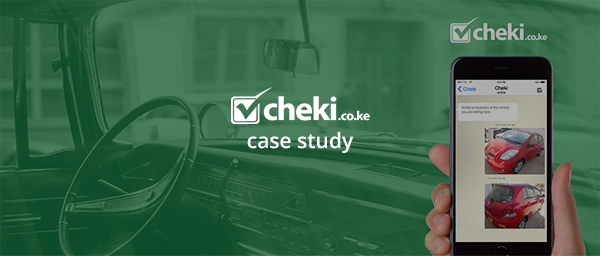
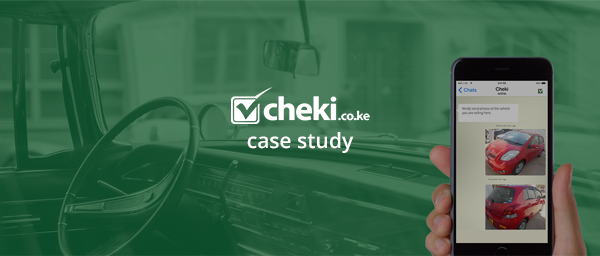
added features email

diff --git a/features/features.html b/features/features.html
@@ -38,10 +38,19 @@
                                 </tr>
                             </tbody>
                         </table>
+                        <table align="center" border="0" cellpadding="0" cellspacing="0" style="margin:0 auto; width:77%">
+                            <tbody>
+                                <tr>
+                                    <td align="right" valign="top">
+                                        <h2 style="text-align:center; font-weight:600; color:#713585;">Bunch Load of Features</h2>
+                                    </td>
+                                </tr>
+                            </tbody>
+                        </table>
                         <table align="center" border="0" cellpadding="0" cellspacing="0" style="margin:0 auto 5px; width:97%">
                             <tbody>
                                 <tr>
-                                    <td align="center" valign="top"><img alt="" class="img" src="images/hero_banner.png" style="display:block;"></td>
+                                    <td align="center" valign="top"><img alt="" class="img" src="images/features_hero.png" style="display:block;"></td>
                                 </tr>
                             </tbody>
                         </table>
@@ -49,8 +58,23 @@
                             <tbody>
                                 <tr>
                                     <td align="right" valign="top">
-                                        <h2 style="text-align:center; font-weight:600; color:#713585;">YAY!! You Did it!!</h2>
+                                        <h2 style="text-align:center; font-weight:600; color:#713585;">1.Awesome analytics</h2>
                                         <p style="text-align:center; font-size:15px; color:#333; font-weight:500; line-height:21px;">You have Zendesk and email is sort of okay but what you really want is to have real-time conversations with your customers where they spend the most time; on instant messaging.</p>
+                                    </td>
+                                </tr>
+                            </tbody>
+                        </table>
+                        <table align="center" border="0" cellpadding="0" cellspacing="0" class="container-table" style="padding:10px 0; width:600px;">
+                            <tbody>
+                                <tr>
+                                    <td>
+                                        <table align="center" cellpadding="0" cellspacing="0" style="margin:0 auto; min-width:170px; width:40%;">
+                                            <tbody>
+                                                <tr>
+                                                    <td align="center" style="-moz-border-radius: 5px; -webkit-border-radius: 5px; background-color: #703484; border-radius: 5px; color: #ffffff; display: block; padding:1% 5%; width: 75%; margin: 0 auto;"><a href="#" style=" cursor:pointer; font-size:14px; font-weight: 500; font-family: Helvetica, Arial, sans-serif; text-decoration: none; line-height:40px; width:100%; display:block" target="_blank"><span style="color: #FFFFFF; font-weight: 600;" >More Awesome Analytics </span></a></td>
+                                                </tr>
+                                            </tbody>
+                                        </table>
                                     </td>
                                 </tr>
                             </tbody>
@@ -70,7 +94,7 @@
                                             <tbody>
                                                 <tr>
                                                     <td valign="top">
-                                                        <h2 style=" color:#713585; font-size: 20px; font-weight:500; text-align:center;">Confirm Email</h2>
+                                                        <h2 style=" color:#eb536c; font-size: 16px; font-weight:500; text-align:center;">2.Zendesk connect</h2>
                                                         <p style="text-align:center; color:#333; font-size:13px;">You already use Zendesk. Now you can talk to your customers in real time on IM. Setting up is as easy as saying What's up?</p>
                                                     </td>
                                                 </tr>
@@ -80,7 +104,7 @@
                                             <tbody>
                                                 <tr>
                                                     <td valign="top">
-                                                        <h2 style=" color:#713585; font-size: 20px; font-weight:500; text-align:center;">Take a tour</h2>
+                                                        <h2 style=" color:#eb536c; font-size: 16px; font-weight:500; text-align:center;">3.Robust API</h2>
                                                         <p style="text-align:center; color:#333; font-size:13px;">Your customers are already using their favorite IM apps. Now, you can talk to them from one platform.</p>
                                                     </td>
                                                 </tr>
@@ -90,7 +114,7 @@
                                             <tbody>
                                                 <tr>
                                                     <td valign="top">
-                                                       <h2 style=" color:#713585; font-size: 20px; font-weight:500; text-align:center;">Add a Number</h2>
+                                                       <h2 style=" color:#eb536c; font-size: 16px; font-weight:500; text-align:center;">4.Intuitive Dashboard</h2>
                                                         <p style="text-align:center; color:#333; font-size:13px;">For a flat fee you get access to the power of Ongair + Zendesk for your whole team.</p>
                                                     </td>
                                                 </tr>
@@ -100,28 +124,44 @@
                                 </tr>
                             </tbody>
                         </table>
-                        <table align="center" border="0" cellpadding="0" cellspacing="0" style=" margin:0 auto; width:97%">
+                        <table align="center" border="0" cellpadding="0" cellspacing="0" style=" margin:0 auto ; width:100%;">
+                            <tbody>
+                                <tr>
+                                    <img src="images/border.png">
+                                </tr>
+                            </tbody>
+                        </table>
+                        <table align="center" border="0" cellpadding="0" cellspacing="0" style=" margin:25px auto 0; width:97%;">
                             <tbody>
                                 <tr>
                                     <td>
                                         <table border="0" cellpadding="0" cellspacing="0" class="col">
                                             <tbody>
                                                 <tr>
-                                                    <td align="center" style="-moz-border-radius: 5px; -webkit-border-radius: 5px; background-color: #f47b61; border-radius: 5px; color: #ffffff; display: block; padding: 1%; width: 75%; margin: 0 auto;"><a href="#" style=" cursor:pointer; font-size:14px; font-weight: 500; font-family: Helvetica, Arial, sans-serif; text-decoration: none; line-height:30px; width:100%; display:block" target="_blank"><span style="color: #FFFFFF">Confirm Email</span></a></td>
+                                                    <td valign="top">
+                                                        <h2 style=" color:#eb536c; font-size: 16px; font-weight:500; text-align:center;">5.Multiple Users</h2>
+                                                        <p style="text-align:center; color:#333; font-size:13px;">You already use Zendesk. Now you can talk to your customers in real time on IM. Setting up is as easy as saying What's up?</p>
+                                                    </td>
                                                 </tr>
                                             </tbody>
                                         </table>
                                         <table border="0" cellpadding="0" cellspacing="0" class="col">
                                             <tbody>
                                                 <tr>
-                                                    <td align="center" style="-moz-border-radius: 5px; -webkit-border-radius: 5px; background-color: #703484; border-radius: 5px; color: #ffffff; display: block; padding: 1%; width: 75%; margin: 0 auto;"><a href="#" style=" cursor:pointer; font-size:14px; font-weight: 500; font-family: Helvetica, Arial, sans-serif; text-decoration: none; line-height:30px; width:100%; display:block" target="_blank"><span style="color: #FFFFFF">Tour Away!</span></a></td>
+                                                    <td valign="top">
+                                                        <h2 style=" color:#eb536c; font-size: 16px; font-weight:500; text-align:center;">6.Locations</h2>
+                                                        <p style="text-align:center; color:#333; font-size:13px;">Your customers are already using their favorite IM apps. Now, you can talk to them from one platform.</p>
+                                                    </td>
                                                 </tr>
                                             </tbody>
                                         </table>
                                         <table border="0" cellpadding="0" cellspacing="0" class="col">
                                             <tbody>
                                                 <tr>
-                                                    <td align="center" style="-moz-border-radius: 5px; -webkit-border-radius: 5px; background-color: #ed385f; border-radius: 5px; color: #ffffff; display: block; padding: 1%; width: 75%; margin: 0 auto;"><a href="#" style=" cursor:pointer; font-size:14px; font-weight: 500; font-family: Helvetica, Arial, sans-serif; text-decoration: none; line-height:30px; width:100%; display:block" target="_blank"><span style="color: #FFFFFF">Add number</span></a></td>
+                                                    <td valign="top">
+                                                       <h2 style=" color:#eb536c; font-size: 16px; font-weight:500; text-align:center;">7.Autoresponders</h2>
+                                                        <p style="text-align:center; color:#333; font-size:13px;">For a flat fee you get access to the power of Ongair + Zendesk for your whole team.</p>
+                                                    </td>
                                                 </tr>
                                             </tbody>
                                         </table>
@@ -129,6 +169,7 @@
                                 </tr>
                             </tbody>
                         </table>
+                        
                         <table align="center" border="0" cellpadding="0" cellspacing="0" style=" margin:35px auto; width:97%; background-color: #f0f0f0; -moz-border-radius: 5px; -webkit-border-radius: 5px;">
                             <tbody>
                                 <tr>

diff --git a/case_study/case_study.html b/case_study/case_study.html
@@ -29,11 +29,11 @@
             <tbody>
                 <tr>
                     <td align="center">
-                        <table align="center" border="0" cellpadding="0" cellspacing="0" style="margin: 0; width:97%">
+                        <table align="center" border="0" cellpadding="0" cellspacing="0" style="margin: 0; padding: 14px 0; width:97%">
                             <tbody>
                                 <tr>
                                     <td align="center" valign="top">
-                                        <img src="images/logo.png">
+                                        <img src="images/logo.png" style="width: 100px; height: 36px ">
                                     </td>
                                 </tr>
                             </tbody>
@@ -45,7 +45,7 @@
                                 </tr>
                             </tbody>
                         </table>
-                        <table align="center" border="0" cellpadding="0" cellspacing="0" style="margin:25px auto; width:77%">
+                        <table align="center" border="0" cellpadding="0" cellspacing="0" style="margin:0 auto; width:77%">
                             <tbody>
                                 <tr>
                                     <td align="right" valign="top">
@@ -54,14 +54,14 @@
                                 </tr>
                             </tbody>
                         </table>
-                        <table align="center" border="0" cellpadding="0" cellspacing="0" style=" margin:25px auto 0; width:97%;">
+                        <table align="center" border="0" cellpadding="0" cellspacing="0" style=" margin:10px auto 0; width:97%;">
                             <tbody>
                                 <tr>
-                                    <td style="width: 30%; border-right: 1px solid #ccc; ">
+                                    <td valign="top" style="width: 30%; border-right: 1px solid #ccc; ">
                                         <h2 style="text-align:center; font-weight:600; color:#eb536c;">Problem</h2>
                                     </td>
                                     <td style="width: 70%">
-                                        <p style="text-align:left; padding-left: 25px">You think water moves fast? You should see ice. It moves like it has a mind. Like it knows it killed the world once and got a taste for murder. After the avalanche, it took us a week to climb out. Now, I don't know exactly when we turned on each other, but I know that seven of us survived the slide... and only five made it out.<br>
+                                        <p style="text-align:left; padding-left: 25px; font-size: 13px">You think water moves fast? You should see ice. It moves like it has a mind. Like it knows it killed the world once and got a taste for murder. After the avalanche, it took us a week to climb out. Now, I don't know exactly when we turned on each other, but I know that seven of us survived the slide... and only five made it out.<br>
                                         Now we took an oath, that I'm breaking now. We said we'd say it was the snow that killed the other two, but it wasn't. Nature is lethal but it doesn't hold a candle to man.</p>
                                     </td>
                                 </tr>
@@ -70,17 +70,33 @@
                         <table align="center" border="0" cellpadding="0" cellspacing="0" style=" margin:0 auto; width:97%;">
                             <tbody>
                                 <tr>
-                                    <td style="width: 30%; border-right: 1px solid #ccc; ">
+                                    <td valign="top" style="width: 30%; border-right: 1px solid #ccc; ">
                                         <h2 style="text-align:center; font-weight:600; color:#eb536c;">Solution</h2>
                                     </td>
                                     <td style="width: 70%">
-                                        <p style="text-align:left;padding-top: 20px; padding-left: 25px">You think water moves fast? You should see ice. It moves like it has a mind. Like it knows it killed the world once and got a taste for murder. After the avalanche, it took us a week to climb out. Now, I don't know exactly when we turned on each other, but I know that seven of us survived the slide... and only five made it out.<br>
+                                        <p style="text-align:left;padding-top: 20px; padding-left: 25px; font-size: 13px">You think water moves fast? You should see ice. It moves like it has a mind. Like it knows it killed the world once and got a taste for murder. After the avalanche, it took us a week to climb out. Now, I don't know exactly when we turned on each other, but I know that seven of us survived the slide... and only five made it out.<br>
                                         Now we took an oath, that I'm breaking now. We said we'd say it was the snow that killed the other two, but it wasn't. Nature is lethal but it doesn't hold a candle to man.</p>
                                     </td>
                                 </tr>
                             </tbody>
                         </table>
-                         <table align="center" border="0" cellpadding="0" cellspacing="0" style=" margin:35px auto; width:97%; background-color: #f0f0f0; -moz-border-radius: 5px; -webkit-border-radius: 5px;">
+                        <table align="center" border="0" cellpadding="0" cellspacing="0" class="container-table" style="padding:10px 0; width:600px;">
+                            <tbody>
+                                <tr>
+                                    <td>
+                                        <table align="center" cellpadding="0" cellspacing="0" style="margin:20px auto 0; min-width:170px; width:50%;">
+                                            <tbody>
+                                                <tr>
+                                                    <td align="center" style="-moz-border-radius: 5px; -webkit-border-radius: 5px; background-color: #703484; border-radius: 5px; color: #ffffff; display: block; padding: 1%; width: 75%; margin: 0 auto;"><a href="#" style=" cursor:pointer; font-size:14px; font-weight: 500; font-family: Helvetica, Arial, sans-serif; text-decoration: none; line-height:40px; width:100%; display:block" target="_blank"><span style="color: #FFFFFF; font-weight: 600;" >More Awesome case studies </span></a></td>
+                                                </tr>
+                                            </tbody>
+                                        </table>
+                                    </td>
+                                </tr>
+                            </tbody>
+                        </table>
+
+                        <table align="center" border="0" cellpadding="0" cellspacing="0" style=" margin:35px auto; width:97%; background-color: #f0f0f0; -moz-border-radius: 5px; -webkit-border-radius: 5px;">
                             <tbody>
                                 <tr>
                                     <td style="width: 50%;">

diff --git a/video/video.html b/video/video.html
@@ -29,11 +29,11 @@
             <tbody>
                 <tr>
                     <td align="center">
-                        <table align="center" border="0" cellpadding="0" cellspacing="0" style="margin: 0; width:97%">
+                        <table align="center" border="0" cellpadding="0" cellspacing="0" style="margin: 0; padding: 14px 0; width:97%">
                             <tbody>
                                 <tr>
                                     <td align="center" valign="top">
-                                        <img src="images/logo.png">
+                                        <img src="images/logo.png" style="width: 100px; height: 36px ">
                                     </td>
                                 </tr>
                             </tbody>
